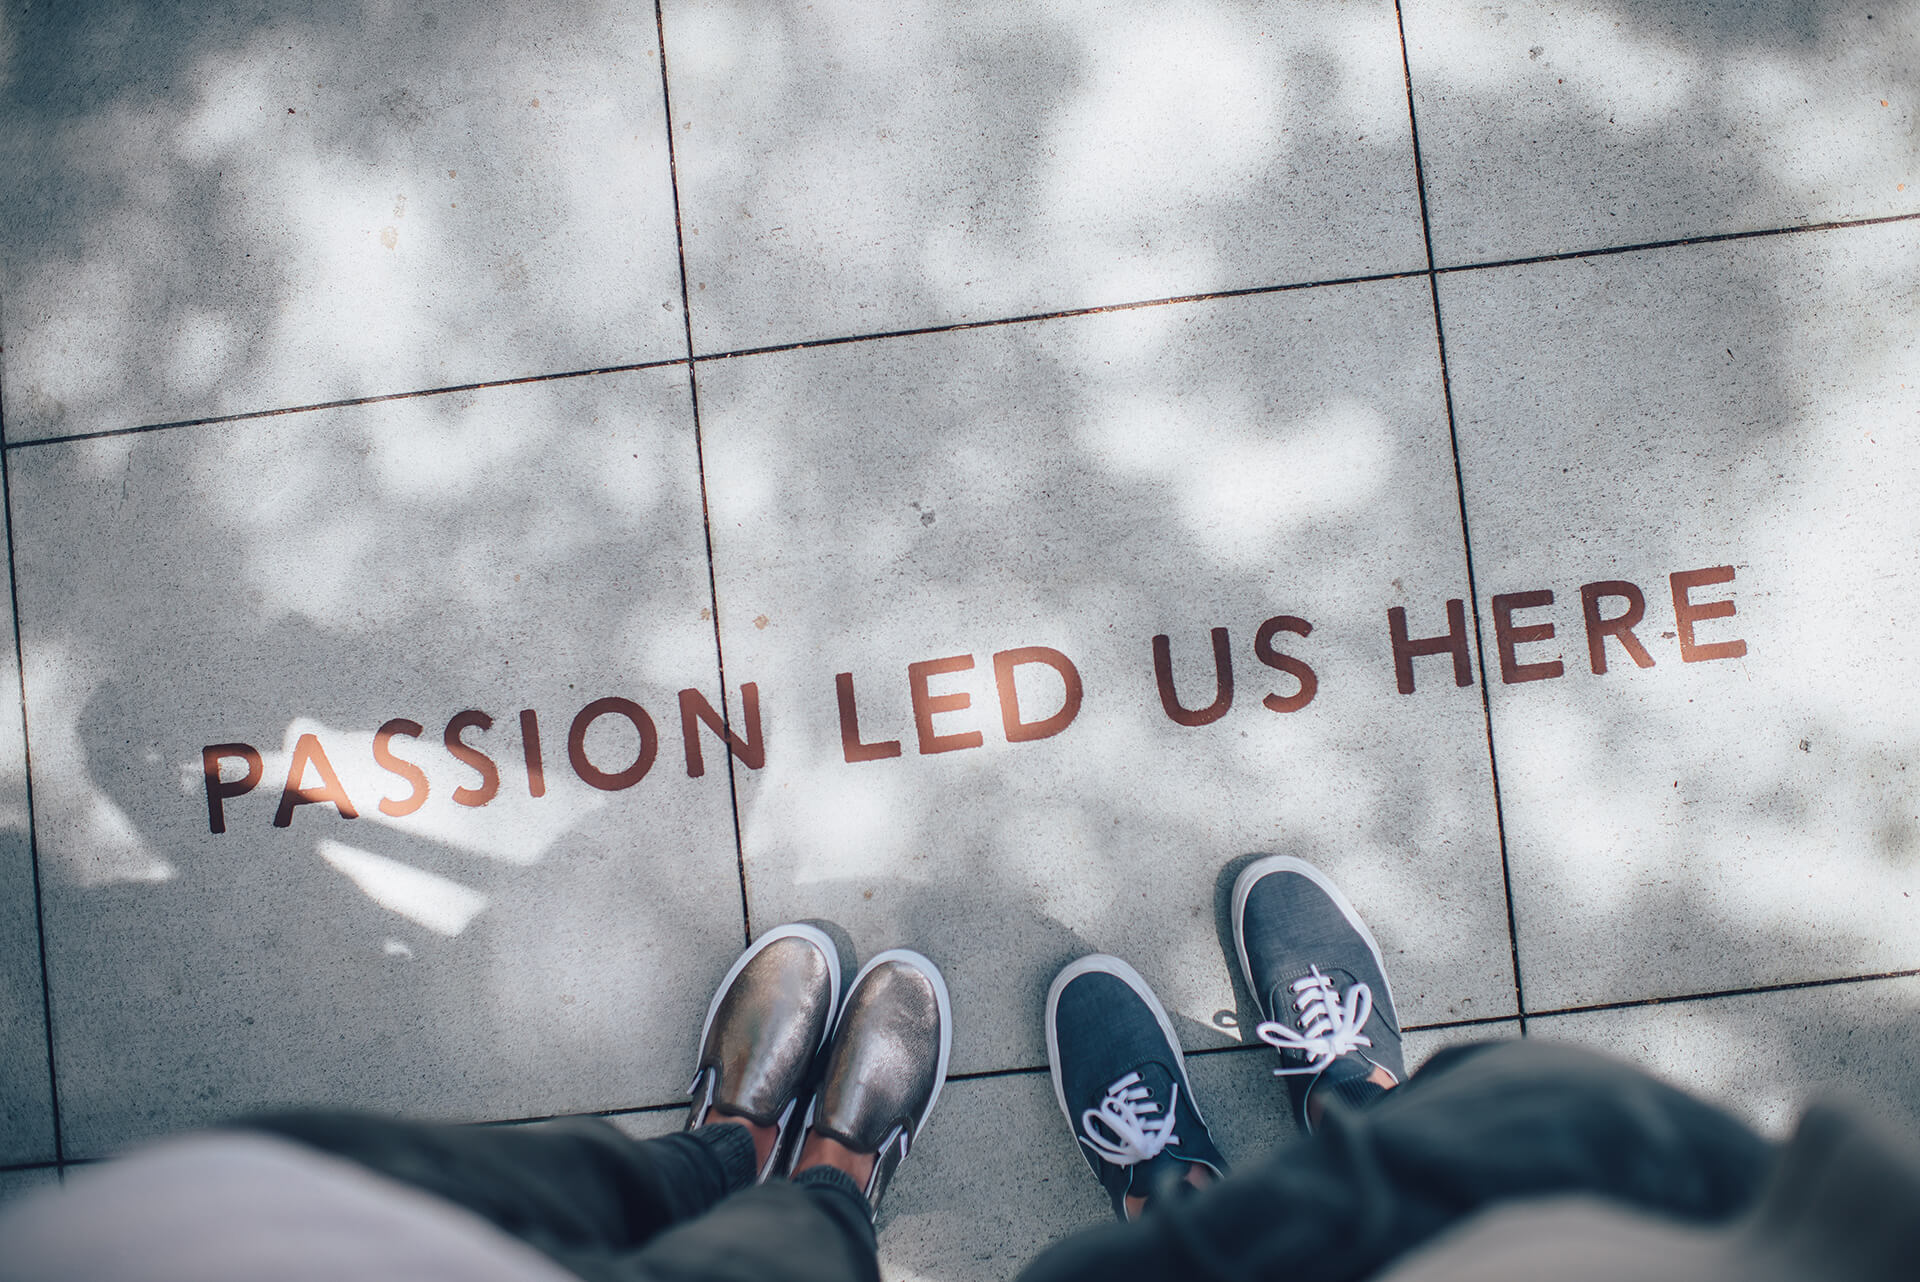
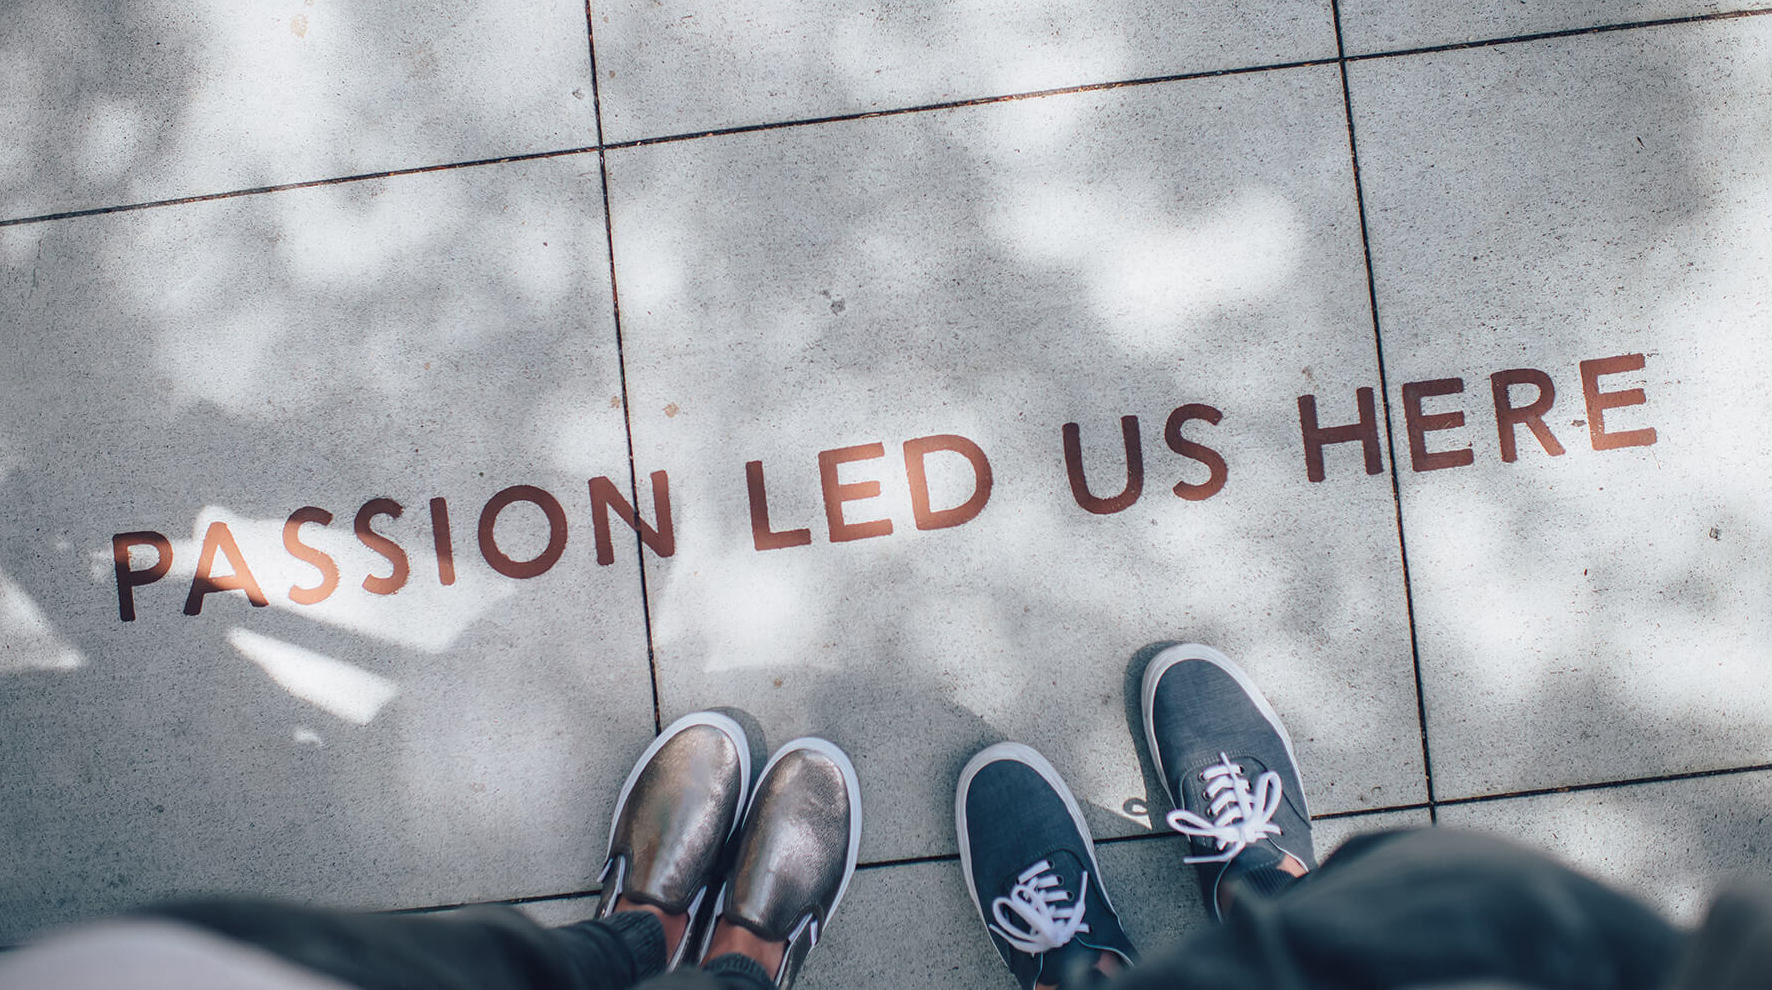
Updated ver. of about-me done

diff --git a/index.html b/index.html
@@ -133,21 +133,26 @@
 
       <!-- ============================================-->
       <!-- About-me begin =============================-->
-        <section class="py-0 text-center bg-light" id="about-me">
-          <div class="container">
-            <div class="row justify-content-center align-items-center min-vh-100">
-              <div class="col-lg-12">
-                <h1 class="overflow-hidden my-4">My passion resides in
-                  <br class="d-sm-none" /><span class="typed-text font-italic text-serif font-weight-light" data-typed-text='["product management.","technology.","user experience.", "design thinking."]'></span></h1>
-                <p class="text-sans-serif">Throughout my intensive undergraduate education, I devoted myself into various interdisciplinary fields of study. <br />Eventually, I settled for Product Management, the one I am most passionate about.</p>
-                <a class="btn btn-outline-dark rounded-capsule mt-4" href="pages/portfolio.html" data-zanim-xs='{"delay":0.1,"animation":"zoom-in"}'>See my work</a>
-              </div>
+      <section class="text-center bg-light" id="about-me">
+        <div class="container min-vh-100">
+          <div class="row justify-content-center align-items-center">
+            <div class="col-lg-8">
+              <img class="img-fluid plyr" src="pages/assets/img/about-03.jpg" alt="" data-zanim-xs='{"animation":"zoom-in","delay":0.1}' data-zanim-trigger="scroll" />
             </div>
           </div>
-          <!-- end of .container-->
-        </section>
-        <!-- About-me close =============================-->
-        <!-- ============================================-->
+          <div class="row justify-content-center align-items-center">
+            <div class="col-lg-12">
+              <h1 class="overflow-hidden my-4">My passion resides in
+                <br class="d-sm-none" /><span class="typed-text font-italic text-serif font-weight-light" data-typed-text='["product management.","technology.","user experience.", "design thinking."]'></span></h1>
+              <p class="text-sans-serif">Throughout my intensive undergraduate education, I devoted myself into various fields of study. <br />Eventually, I settled for Product Management, the one I am most passionate about.</p>
+              <a class="btn btn-outline-dark rounded-capsule mt-4" href="pages/portfolio.html" data-zanim-xs='{"delay":0.1,"animation":"zoom-in"}'>See my work</a>
+            </div>
+          </div>
+        </div>
+        <!-- end of .container-->
+      </section>
+      <!-- About-me close =============================-->
+      <!-- ============================================-->
 
       <!-- ============================================-->
       <!-- Activities begin ===========================-->
@@ -227,19 +232,54 @@
 
       <!-- ============================================-->
       <!-- End-quote begin ============================-->
-        <section class="text-sans-serif text-center py-6 py-xl-9 bg-dark" id="end-quote">
+        <section class="text-sans-serif text-center py-6 py-xl-9 bg-light" id="end-quote">
           <div class="container">
             <div class="row justify-content-center">
               <div class="col-xl-9 col-lg-10">
-                <div class="fs-2 text-500">Managing products has never been a mere "job" but
-                  <h3 class="d-inline-block font-weight-bold text-white">a strong sense of ownership</h3> in my eyes. Ownership inspires responsibility, passion, and purpose, three indispensable elements for a product's success.</div>
-                <hr class="hr-short border-500 mt-6">
+                <div class="fs-2 text-600">Managing products has never been a mere "job" but
+                  <h3 class="d-inline-block font-weight-bold">a strong sense of ownership</h3> in my eyes. Ownership inspires responsibility, passion, and purpose, three indispensable elements for a product's success.</div>
+                <hr class="hr-short border-600 mt-6">
               </div>
             </div>
           </div>
           <!-- end of .container-->
         </section>
         <!-- End-quote close ============================-->
+        <!-- ============================================-->
+
+      <!-- ============================================-->
+      <!-- Pre-footer begin ===========================-->
+        <section class="py-6 text-sans-serif bg-dark" id="digital-socials">
+          <div class="container">
+            <div class="row mx-lg-4">
+              <div class="col-lg-3 pr-lg-5">
+                <h3 class="mb-3 text-300">Shantao Yi</h3>
+                <p>An aspiring product manager and incoming graduate student at Cornell University.</p>
+              </div>
+              <div class="col-md-6 col-lg-4 pr-lg-6 ml-lg-auto mt-6 mt-lg-0">
+                <h4 class="mb-3 text-300">Socials</h4>
+                <a class="fs-2 mr-2 text-700" href="#"><span class="fab fa-linkedin-in"></span></a>
+                <a class="fs-2 mr-2 text-700" href="#"><span class="fab fa-facebook-f"></span></a>
+                <a class="fs-2 mr-2 text-700" href="#"><span class="fab fa-github"></span></a>
+                <a class="fs-2 text-700" href="#"><span class="fab fa-instagram"></span></a>
+              </div>
+              <div class="col-md-6 col-lg-4 mt-6 mt-lg-0">
+                <h4 class="mb-3 text-300">Get in touch</h4>
+                <p class="mb-0"><span class="text-400">Tel:</span>
+                  <a class="text-700" href="tel:8588664039">+1 (858)866-4039</a>
+                </p>
+                <p class="mb-0"><span class="text-400">Drop me an email:</span>
+                  <a class="text-700" href="mailto:shantao.yi@gmail.com">shantao.yi@gmail.com</a>
+                </p>
+                <p class="mb-0"><span class="text-400">I am located at:</span>
+                  <a class="text-700">San Diego, CA</a>
+                </p>
+              </div>
+            </div>
+          </div>
+          <!-- end of .container-->
+        </section>
+        <!-- Pre-footer close ===========================-->
         <!-- ============================================-->
     
     </main>

diff --git a/pages/portfolio.html b/pages/portfolio.html
@@ -230,6 +230,41 @@
       <!-- <section> close ============================-->
       <!-- ============================================-->
 
+      <!-- ============================================-->
+      <!-- Pre-footer begin ===========================-->
+      <section class="py-6 text-sans-serif bg-dark" id="digital-socials">
+        <div class="container">
+          <div class="row mx-lg-4">
+            <div class="col-lg-3 pr-lg-5">
+              <h3 class="mb-3 text-300">Shantao Yi</h3>
+              <p>An aspiring product manager and incoming graduate student at Cornell University.</p>
+            </div>
+            <div class="col-md-6 col-lg-4 pr-lg-6 ml-lg-auto mt-6 mt-lg-0">
+              <h4 class="mb-3 text-300">Socials</h4>
+              <a class="fs-2 mr-2 text-700" href="#"><span class="fab fa-linkedin-in"></span></a>
+              <a class="fs-2 mr-2 text-700" href="#"><span class="fab fa-facebook-f"></span></a>
+              <a class="fs-2 mr-2 text-700" href="#"><span class="fab fa-github"></span></a>
+              <a class="fs-2 text-700" href="#"><span class="fab fa-instagram"></span></a>
+            </div>
+            <div class="col-md-6 col-lg-4 mt-6 mt-lg-0">
+              <h4 class="mb-3 text-300">Get in touch</h4>
+              <p class="mb-0"><span class="text-400">Tel:</span>
+                <a class="text-700" href="tel:8588664039">+1 (858)866-4039</a>
+              </p>
+              <p class="mb-0"><span class="text-400">Drop me an email:</span>
+                <a class="text-700" href="mailto:shantao.yi@gmail.com">shantao.yi@gmail.com</a>
+              </p>
+              <p class="mb-0"><span class="text-400">I am located at:</span>
+                <a class="text-700">San Diego, CA</a>
+              </p>
+            </div>
+          </div>
+        </div>
+        <!-- end of .container-->
+      </section>
+      <!-- Pre-footer close ===========================-->
+      <!-- ============================================-->
+
     </main>
     <!-- ===============================================-->
     <!--    End of Main Content-->
